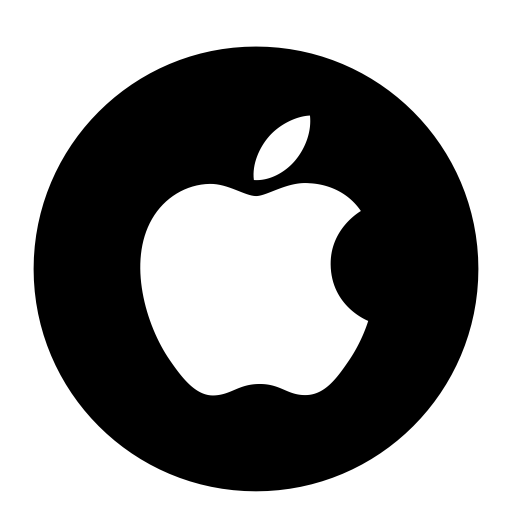
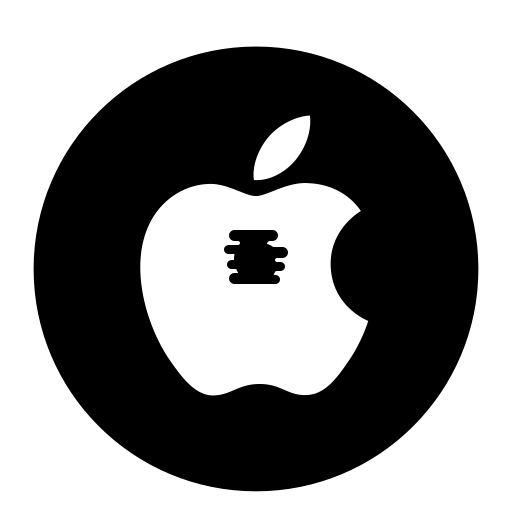
filigran ekleme

Changed region(s): [[0.4375, 0.4375, 0.5625, 0.5625]]

diff --git a/panel/application/views/site/live_preview.php b/panel/application/views/site/live_preview.php
@@ -43,6 +43,7 @@ $i = 0;
 foreach ($siteler as $row){
     $theme_array[$i]['id'] = $row->title;
     $theme_array[$i]['url'] = $row->url;
+    $theme_array[$i]['is_image'] = ($row->url == '') ? true : false ;
     $theme_array[$i]['preview'] = base_url('uploads/').$this->basic_model->getTable('product_img',['tema_id' => $row->id],true)->img_url;
     $theme_array[$i]['type'] = $this->basic_model->getTable('kategoriler',['id' => $row->tema_kategori],true)->kategori_adi;
     $theme_array[$i]['type_color'] = "ec6334";
@@ -266,6 +267,11 @@ if (!$redirect) :
             </a>
         </button>
 
+
+
+
+<?php endif;?>
+
         <?php if ($this->session->userdata('id')):?>
             <div class="btn-group" role="group" >
                 <button style="background-color: #0b8b4b;color: white;font-weight: bold;" type="button" class="btn btn-default dropdown-toggle" data-toggle="dropdown" aria-haspopup="true" aria-expanded="false">
@@ -277,7 +283,7 @@ if (!$redirect) :
                     <li><a href="<?php echo base_url('userop/logout') ?> ">Çıkış Yap</a></li>
                 </ul>
             </div>
-    
+
         <?php else:?>
             <div class="text-center">
                 <a style="background-color: #af1d9c;
@@ -295,18 +301,15 @@ if (!$redirect) :
                     Giriş Yap</a>
             </div>
         <?php endif;?>
-
-
-<?php endif;?>
     </div>
 </div>
 
     <?php if ($current_theme_url):?>
                 <iframe id="iframe" src="<?php echo $current_theme_url; ?>" frameborder="0" width="100%"></iframe>
-
     <?php elseif ($current_theme_img):?>
-
-                <iframe id="iframe" src="<?php echo $current_theme_img; ?>"  style="margin-left: 80px;  "  width="100%" scrolling="yes" frameborder="0" ></iframe>
+    <center>
+        <iframe id="iframe" src="<?php echo $current_theme_img; ?>"  style="margin-left: 80px;  "  width="100%" scrolling="yes" frameborder="0" ></iframe>
+    </center>
 
      <?php endif;?>
 

diff --git a/panel/application/controllers/Watermark.php b/panel/application/controllers/Watermark.php
@@ -1,0 +1,49 @@
+<?php
+
+if (!defined('BASEPATH')) {
+    exit('No direct script access allowed');
+}
+class Watermark extends CI_Controller
+{
+    public function __construct()
+    {
+        parent::__construct();
+        $this->load->library('image_lib');
+    }
+    public function text()
+    {
+        $config['source_image'] = './uploads/text.jpg';
+        //The image path,which you would like to watermarking
+        $config['wm_text'] = 'arjunphp.com';
+        $config['wm_type'] = 'text';
+        $config['wm_font_path'] = './fonts/atlassol.ttf';
+        $config['wm_font_size'] = 16;
+        $config['wm_font_color'] = 'ffffff';
+        $config['wm_vrt_alignment'] = 'middle';
+        $config['wm_hor_alignment'] = 'right';
+        $config['wm_padding'] = '20';
+        $this->image_lib->initialize($config);
+        if (!$this->image_lib->watermark()) {
+            echo $this->image_lib->display_errors();
+        } else {
+            echo 'Successfully updated image with watermark';
+        }
+    }
+    public function overlay()
+    {
+        $config['image_library'] = 'gd2';
+        $config['source_image'] = './uploads/customers-who-purchase-any-iphone-can-enjoy-one-year-of-apple-tv-for-free-.jpg';
+        $config['wm_type'] = 'overlay';
+        $config['wm_overlay_path'] = './uploads/logo.png';
+        //the overlay image
+        $config['wm_opacity'] = 10;
+        $config['wm_vrt_alignment'] = 'middle';
+        $config['wm_hor_alignment'] = 'center';
+        $this->image_lib->initialize($config);
+        if (!$this->image_lib->watermark()) {
+            echo $this->image_lib->display_errors();
+        } else {
+            echo 'Successfully updated image with watermark';
+        }
+    }
+}

diff --git a/panel/application/controllers/new_product.php b/panel/application/controllers/new_product.php
@@ -13,6 +13,7 @@ class new_product extends CI_Controller
         $this->load->model("product_image_model");
         $this->load->model("product_model");
         $this->load->model("basic_model");
+        $this->load->library('image_lib');
     }
 
     public function index()
@@ -248,12 +249,25 @@ class new_product extends CI_Controller
                 array(
                     "img_url" => $uploaded_file,
                     "tema_id" => $id
-
                 )
             );
+            $config['image_library'] = 'gd2';
+            $config['source_image'] = './uploads/'.$uploaded_file;
+            $config['wm_type'] = 'overlay';
+            $config['wm_overlay_path'] = './uploads/'. $this->basic_model->getRow('logo')->image;
+            //the overlay image
+            $config['wm_opacity'] = 10;
+            $config['wm_vrt_alignment'] = 'middle';
+            $config['wm_hor_alignment'] = 'center';
+            $this->image_lib->initialize($config);
+            if (!$this->image_lib->watermark()) {
+                echo $this->image_lib->display_errors();
+            } else {
+
+            }
 
         }else{
-            echo "işlem başarısız";
+
         }
     }
 
